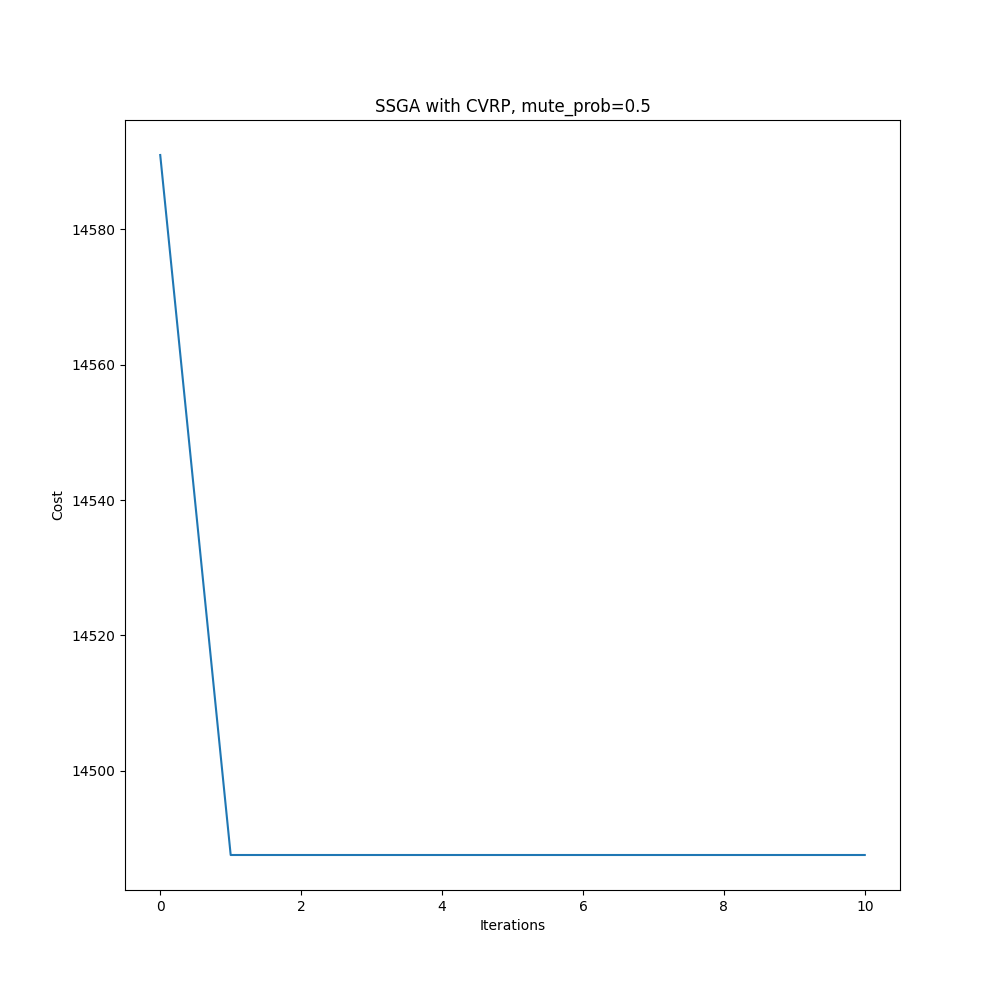
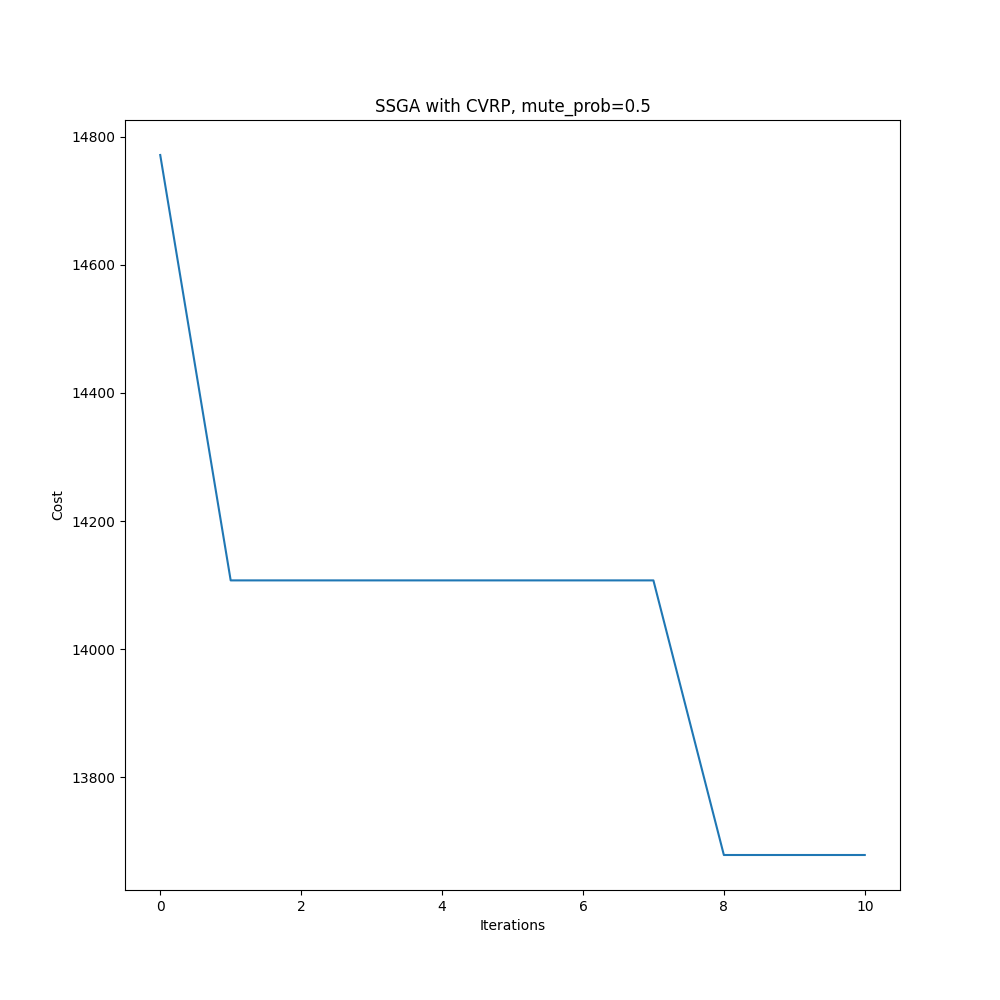
update

diff --git a/ga.py b/ga.py
@@ -14,9 +14,9 @@ random.seed(0)
 
 def get_parser():
     parser = argparse.ArgumentParser()
-    parser.add_argument('--input_path', type=str, default="./data/Input_Data.json", required=False,
+    parser.add_argument('--input_path', type=str, default=".\data\json\homberger_200_customer_instances\c1_2_1.json", required=False,
                         help="Enter the input Json file name")
-    parser.add_argument('--pop_size', type=int, default=100, required=False,
+    parser.add_argument('--pop_size', type=int, default=50, required=False,
                         help="Enter the population size")
     parser.add_argument('--mute_prob', type=float, default=0.5, required=False,
                         help="Mutation Probabilty")
